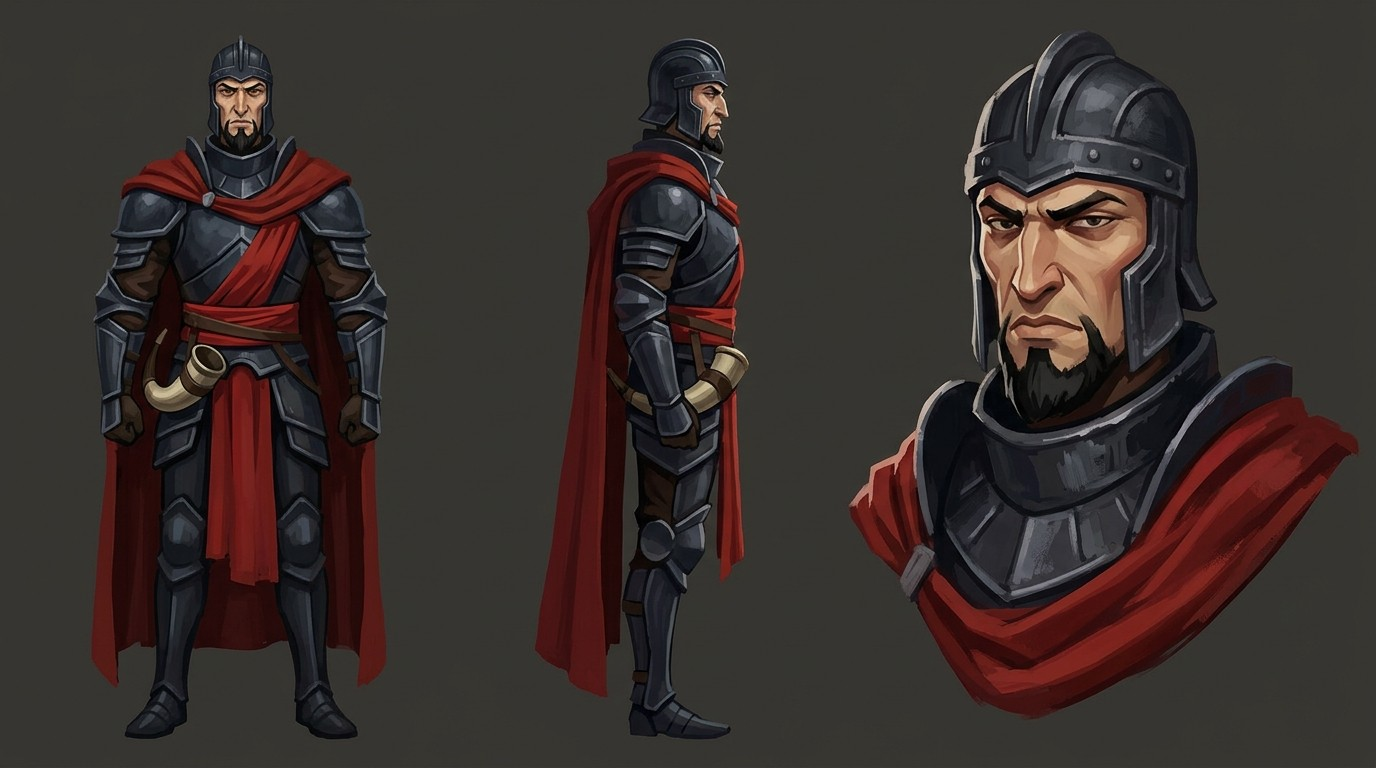
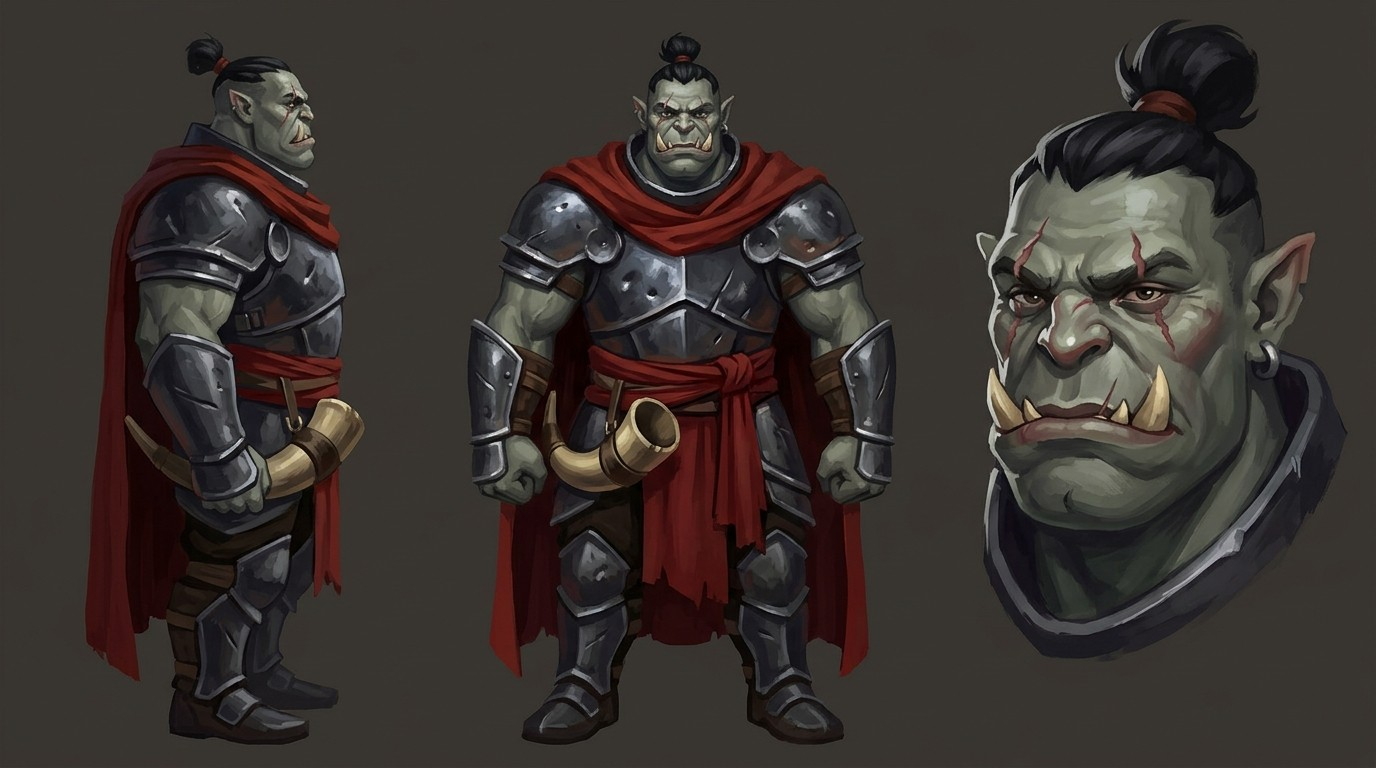
Chronicle level 9: big blood troll, orc commander for the Scarlet Wizards, a mixed horde (orcs, bugbears, humans), the old man and the pipe; shots batch submitted
Claude-Session: https://claude.ai/code/session_01ATYH57jnXnDsQfoAHnRMyx

diff --git a/chronicle/painted/make/09.py b/chronicle/painted/make/09.py
@@ -26,7 +26,7 @@ VIL="in the square of a small poor village at dusk, thatched houses, "
 S_=[
 (0,'black',[],['fire','smoke','embers'],COBH+"burning at night, fire on the rooftops, smoke across the moon, no people close",{'grade':'red','flicker':0.6}),
 (9.6,'fade',[CO],['smoke','embers'],"On a burning rooftop above Cobh, the enemy commander raising a great curved war horn to his lips",{'grade':'red','flicker':0.5}),
-(19.3,'cut',[],['smoke','embers'],COBH+"hunched shadowy werewolves fleeing back through the burning streets toward the gate",{'grade':'red','flicker':0.5}),
+(19.3,'cut',[],['smoke','embers'],COBH+"a mixed horde of orcs, hulking hairy bugbears and human soldiers in red sashes fleeing back through the burning streets toward the gate",{'grade':'red','flicker':0.5}),
 (23.2,'flash',[TR],['smoke','embers'],COBH+"the huge war troll still stomping through a burning street, a club in its fist, hunting",{'grade':'red','shake':0.5,'flicker':0.5}),
 (26.3,'cut',[TR,CR,CW],['smoke','embers'],COBH+"Crackle and Caroline trapped against a wall as the troll's shadow falls over them",{'grade':'red','flicker':0.5}),
 (30.4,'cut',[L],['smoke','embers'],COBH+LU+"sprinting through the burning street toward them",{'flicker':0.5}),
@@ -78,8 +78,8 @@ S_=[
 (220.0,'cut',[],['ash'],COBH+"townsfolk carrying the wounded and the dead through the ash-grey street",{}),
 (226.4,'fade',[OM],['dust'],"A cramped little arcane shop full of trinkets and candles, an old shopkeeper weeping over a brass lantern on the counter",{'flicker':0.4}),
 (229.1,'cut',[L,OM],['dust'],"In the arcane shop, "+LU+"handing the brass lantern of revealing across the counter to the old man",{'flicker':0.4}),
-(232.8,'cut',[L,OM],['smoke'],"In the arcane shop, "+LU+"passing the old man a pipe, smoke curling",{'flicker':0.4}),
-(235.6,'cut',[OM],['smoke'],"The old shopkeeper slumped blissfully in his chair, smoke around him, high as a kite, smiling",{'flicker':0.4}),
+(232.8,'cut',[L,OM],['smoke'],"In the arcane shop, "+LU+"passing the old man a long carved pipe with a little pouch of herbs, a sly smile",{'flicker':0.4}),
+(235.6,'cut',[OM],['smoke'],"The old shopkeeper puffing on a long pipe in his chair, eyes glazed and drifting, a dreamy silly grin, lazy smoke rings floating around his head, high as a kite",{'flicker':0.4}),
 (239.2,'cut',[L,A,C],['dust'],COBH+"by day the three brothers helping the townsfolk rebuild a burned house, lifting beams, "+LU,{}),
 (241.9,'cut',[],['dust'],"A road sign pointing inland toward the capital, a long road through hills",{}),
 (244.8,'cut',[M],['dust'],"Mara alone behind her bar at night, counting the last of her coins, worried",{'flicker':0.4}),
@@ -110,9 +110,9 @@ assert sid('s22')['scene'].startswith(COBH+'the three brothers standing together
 L10=json.load(open('painted/10-ahm-dynasty.json')); L11=json.load(open('painted/11-hunger-grows.json'))
 L7=json.load(open('painted/07-journey-cobh.json'))
 cast={k:L7['cast'][k] for k in ['lucien','arthas','cedric','mara','aldraik','crackle','caroline','mayor']}
-cast.update({'troll':"a huge war troll three times a man's height: grey-green warty hide, long arms, a tree-trunk club, tusks, small mean eyes, crude iron armour plates and chains",
- 'commander':"the enemy commander: a tall lean man in dark blackened armour with a long red cloak and a scarlet sash, a cruel narrow face, short black beard, a curved war horn at his belt",
- 'archers':"the commander's archers: soldiers in dark leather and red hoods with longbows",
+cast.update({'troll':"a blood troll as in the reference sheet but much bigger, three times a man's height: dark red blood-slick skin, hunched, long arms with claws, a jutting tusked jaw, small burning eyes, ragged black hair, a crude spiked club",
+ 'commander':"the enemy commander, an orc warlord serving the Scarlet Wizards: a huge grey-green orc with tusks and a scarred face, a topknot of black hair, blackened plate armour with a blood-red Scarlet cloak and sash, a curved war horn at his belt",
+ 'archers':"the commander's archers, a mixed band of orcs and human soldiers in dark leather with red hoods and sashes, longbows",
  'oldman':"an old shopkeeper of an arcane curio shop: frail, bald with long white side-whiskers, half-moon spectacles, a faded purple robe, grief in his eyes"})
 board={"id":"saving-cobh","live":False,'cover':'s22','style':L12['style'],'cast':cast,'shots':shots}
 head_={k:v for k,v in board.items() if k!='shots'}
